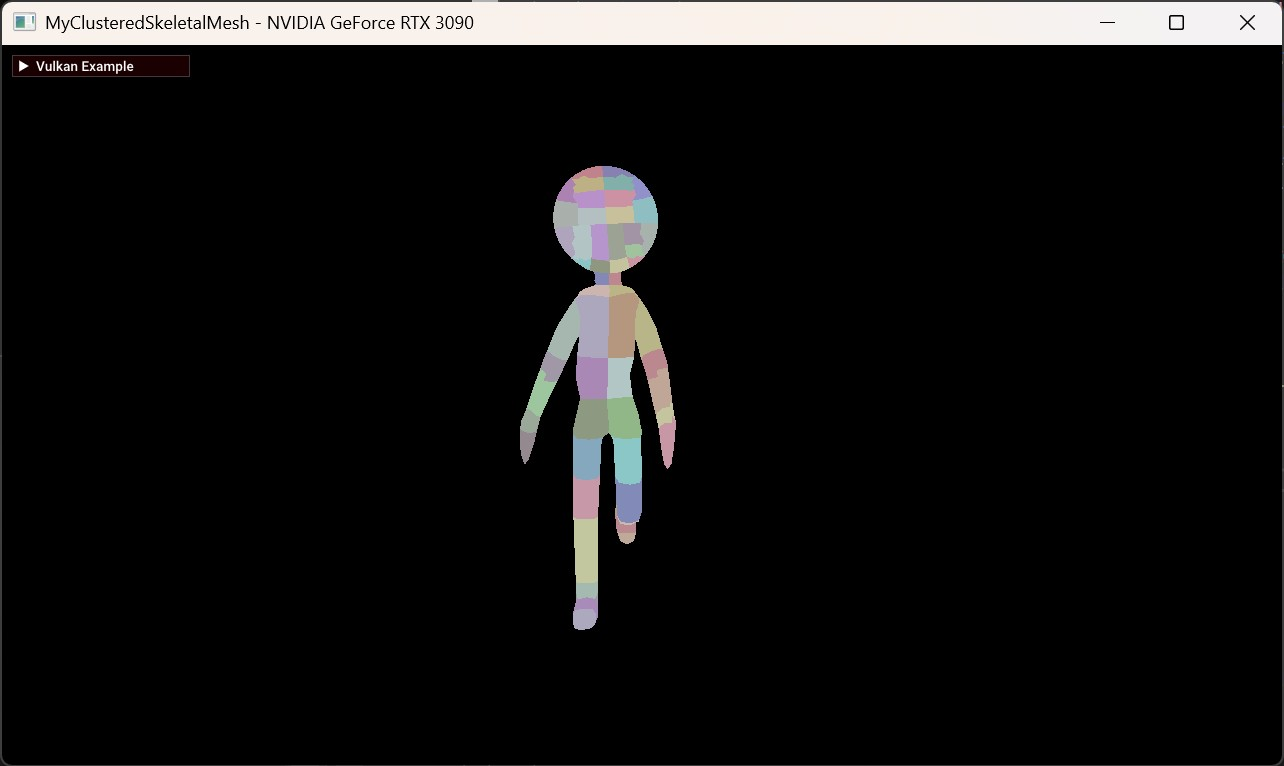
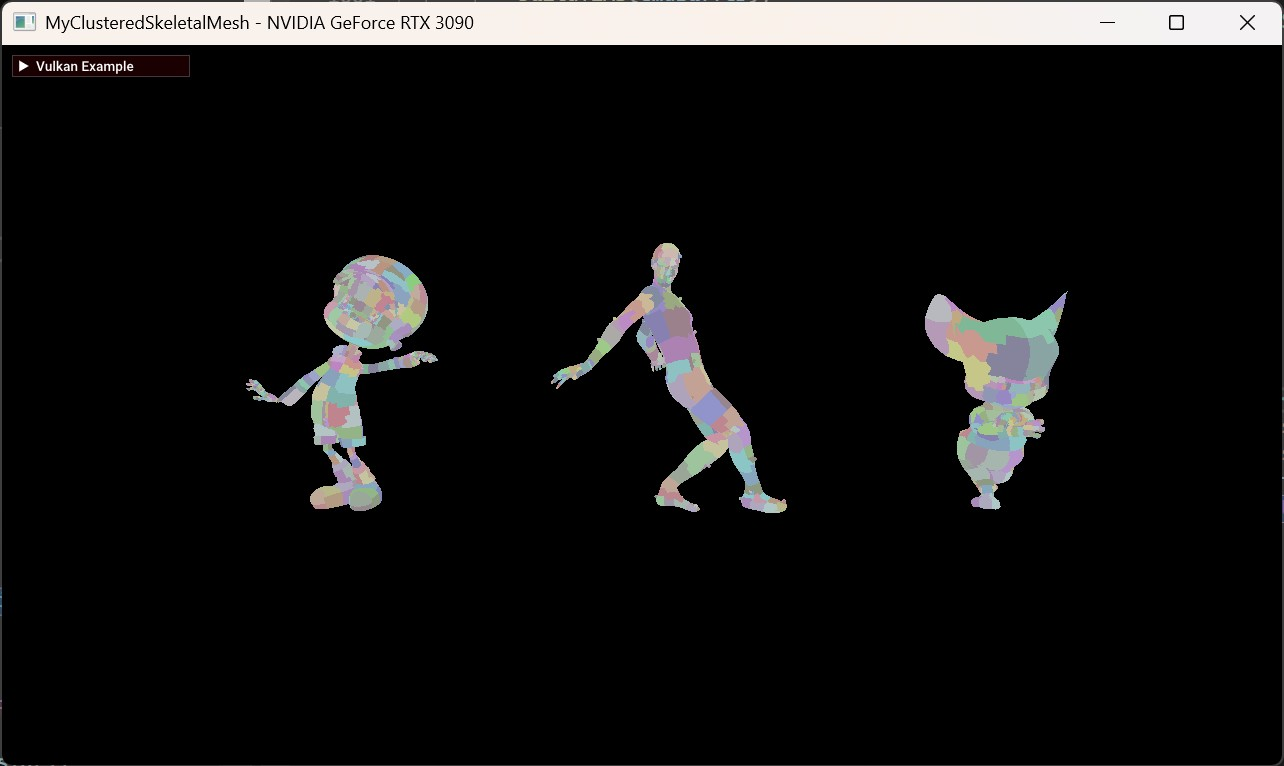
multi animating models, measure performance

diff --git a/MyDevs/myClusteredSkeletalMesh/myClusteredSkeletalMesh.cpp b/MyDevs/myClusteredSkeletalMesh/myClusteredSkeletalMesh.cpp
@@ -16,7 +16,7 @@
 #include "myClusteredSkeletalMesh.h"
 #include "myIncludesCPUGPU.h"
 #define FORCE_STATIC_SCENE 0
-myglTF::FileLoadingFlags g_loadingFlag = myglTF::FileLoadingFlags(myglTF::FileLoadingFlags::MakeClusters);
+myglTF::FileLoadingFlags g_loadingFlag = myglTF::FileLoadingFlags(myglTF::FileLoadingFlags::MakeClusters /*| myglTF::FileLoadingFlags::PreTransformVertices*/);
 
 
 MyClusteredSkeletalMesh::MyClusteredSkeletalMesh()
@@ -24,8 +24,8 @@ MyClusteredSkeletalMesh::MyClusteredSkeletalMesh()
 	title = "MyClusteredSkeletalMesh";
 	camera.type = Camera::CameraType::firstperson;
 	camera.setPerspective(60.0f, (float)width / (float)height, 0.1f, 512.0f);
-	camera.setRotation(glm::vec3(0.0f, 0.0f, 0.0f));
-	camera.setTranslation(glm::vec3(0.0f, -0.1f, -1.0f));
+	camera.setRotation(glm::vec3(-10.0f, -3.0f, 0.0f));
+	camera.setTranslation(glm::vec3(0.0f, 1.3f, -3.7f));
 
 	enableExtensions();
 
@@ -801,6 +801,19 @@ void MyClusteredSkeletalMesh::buildCommandBuffers()
 				0, nullptr,
 				0, nullptr);
 
+			// blas udpate dispatch commands
+			{
+				ClusteredBlasPushConstantData clusteredBlasPushConstants{};
+				uint32_t numClusteredBlases = model.clusteredGeometryNodes.size();
+				clusteredBlasPushConstants.sumCount = numClusteredBlases;
+				clusteredBlasPushConstants.instanceCount = numClusteredBlases * 1; // not instancing yet
+				clusteredBlasPushConstants.animated = 0;
+				clusteredBlasPushConstants.blasAddresses = clusteredBlasDstAddressBuffer.deviceAddress;
+				clusteredBlasPushConstants.clusteredGeometryDatas = model.geometryNodes.deviceAddress;
+				clusteredBlasPushConstants.asInstances = blasInstancesBuffer.deviceAddress;
+				blasUpdateComputePass->buildCommandBuffer(cmdBuffer, clusteredBlasPushConstants);
+			}
+
 			memBarrier.srcAccessMask = VK_ACCESS_SHADER_READ_BIT | VK_ACCESS_SHADER_WRITE_BIT;
 			memBarrier.dstAccessMask = VK_ACCESS_ACCELERATION_STRUCTURE_READ_BIT_KHR | VK_ACCESS_ACCELERATION_STRUCTURE_WRITE_BIT_KHR;
 			vkCmdPipelineBarrier(
@@ -937,9 +950,9 @@ void MyClusteredSkeletalMesh::loadAssets()
 	//myglTF::ModelRT::memoryPropertyFlags = VK_BUFFER_USAGE_ACCELERATION_STRUCTURE_BUILD_INPUT_READ_ONLY_BIT_KHR | VK_BUFFER_USAGE_SHADER_DEVICE_ADDRESS_BIT | VK_BUFFER_USAGE_STORAGE_BUFFER_BIT
 	//model.loadFromFile(getAssetPath() + "models/sponza/sponza.gltf", vulkanDevice, queue, g_loadingFlag | myglTF::FileLoadingFlags::PreTransformVertices);
 	//model.loadFromFile(getAssetPath() + "models/CesiumMan/glTF/CesiumMan.gltf", vulkanDevice, queue, g_loadingFlag);
-	model.loadFromFile("D:\\MyHome\\Assets\\mixamo\\MocapGuy\\gltf\\MocapGuy.gltf", vulkanDevice, queue, g_loadingFlag);
+	//model.loadFromFile(getAssetPath() + "models/mixamo/MocapGuy/MocapGuy.gltf", vulkanDevice, queue, g_loadingFlag);
 
-	//model.loadFromFile(getAssetPath() + "models/FlightHelmet/glTF/FlightHelmet.gltf", vulkanDevice, queue);
+	model.loadFromFile("D:\\Documents\\Blender\\Exports\\Scene\\DancingScene1.gltf", vulkanDevice, queue, g_loadingFlag);
 }
 
 void MyClusteredSkeletalMesh::enableExtensions()
@@ -953,6 +966,12 @@ void MyClusteredSkeletalMesh::enableExtensions()
 void MyClusteredSkeletalMesh::prepare()
 {
 	MyVulkanRTBase::prepare();
+
+#if ACCEL_BUILD_TIMER_ON
+#if defined(_WIN32)
+	setupConsole("Vulkan example");
+#endif
+#endif
 
 	vkGetClusterAccelerationStructureBuildSizesNV = reinterpret_cast<PFN_vkGetClusterAccelerationStructureBuildSizesNV>(vkGetDeviceProcAddr(device, "vkGetClusterAccelerationStructureBuildSizesNV"));
 	vkCmdBuildClusterAccelerationStructureIndirectNV = reinterpret_cast<PFN_vkCmdBuildClusterAccelerationStructureIndirectNV>(vkGetDeviceProcAddr(device, "vkCmdBuildClusterAccelerationStructureIndirectNV"));
@@ -1075,12 +1094,17 @@ void MyClusteredSkeletalMesh::render()
 		// Update Animation
 		static float accTime = 0.f; // accumulated Time
 		static float animationSpeed = 1.f;
-		accTime += frameTimer;
-		if (accTime > model.animations[0].end) // run only first animation
+
+		// update all animations, ALl skeletal mesh should have a single animation.
+		for (uint32_t animIdx = 0; animIdx < model.activeAnimations.size(); ++animIdx)
 		{
-			accTime = 0.f;
+			myglTF::ActiveAnimation& anim = model.activeAnimations[animIdx];
+			anim.accPlayTime += frameTimer;
+			if (anim.accPlayTime > anim.end)
+				anim.accPlayTime = 0.f;
+			model.updateAnimation(animIdx, animationSpeed * anim.accPlayTime);
 		}
-		model.updateAnimation(0, animationSpeed * accTime);
+
 	}
 	updateUniformBuffers();
 
@@ -1129,6 +1153,20 @@ void MyClusteredSkeletalMesh::render()
 			0, nullptr,
 			0, nullptr);
 
+		// blas udpate dispatch commands
+		{
+			ClusteredBlasPushConstantData clusteredBlasPushConstants{};
+			uint32_t numClusteredBlases = model.clusteredGeometryNodes.size();
+			clusteredBlasPushConstants.sumCount = numClusteredBlases;
+			clusteredBlasPushConstants.instanceCount = numClusteredBlases * 1; // not instancing yet
+			clusteredBlasPushConstants.animated = 0;
+			clusteredBlasPushConstants.blasAddresses = clusteredBlasDstAddressBuffer.deviceAddress;
+			clusteredBlasPushConstants.clusteredGeometryDatas = model.geometryNodes.deviceAddress;
+			clusteredBlasPushConstants.asInstances = blasInstancesBuffer.deviceAddress;
+			blasUpdateComputePass->buildCommandBuffer(cmdBuffer, clusteredBlasPushConstants);
+		}
+
+
 		memBarrier.srcAccessMask = VK_ACCESS_SHADER_READ_BIT | VK_ACCESS_SHADER_WRITE_BIT;
 		memBarrier.dstAccessMask = VK_ACCESS_ACCELERATION_STRUCTURE_READ_BIT_KHR | VK_ACCESS_ACCELERATION_STRUCTURE_WRITE_BIT_KHR;
 		vkCmdPipelineBarrier(
@@ -1146,24 +1184,28 @@ void MyClusteredSkeletalMesh::render()
 		gpuTimers[2]->record(cmdBuffer, VK_PIPELINE_STAGE_ACCELERATION_STRUCTURE_BUILD_BIT_KHR, 1);
 	}
 	vulkanDevice->flushCommandBuffer(cmdBuffer, queue);
-	accBuildCLASTime += gpuTimers[0]->timerResult();
-	accBuildBLASTime += gpuTimers[1]->timerResult();
-	accBuildTLASTime += gpuTimers[2]->timerResult();
-	static uint32_t frameCount = 0;
+	static uint32_t frameCount, accFPS = 0;
 	++frameCount;
-	if (frameCount == MEASURE_FRAME_COUNT)
+	if (frameCount >= WARMINGUP_FRAME)
 	{
-		float clasAvg = accBuildCLASTime / MEASURE_FRAME_COUNT;
-		float blasAvg = accBuildBLASTime / MEASURE_FRAME_COUNT;
-		float tlasAvg = accBuildTLASTime / MEASURE_FRAME_COUNT;
-		std::cout << "With CLAS, Measured Frame Count: " << MEASURE_FRAME_COUNT  << "\n";
-		std::cout << "Average CLAS Build Time = " << clasAvg << "(ms)\n";
-		std::cout << "Average BLAS Build Time = " << blasAvg << "(ms)\n";
-		std::cout << "Average TLAS Build Time = " << tlasAvg << "(ms)\n";
-		std::cout << "Average Total AS Build Time = " << clasAvg + blasAvg + tlasAvg << "(ms)\n";
+		accBuildCLASTime += gpuTimers[0]->timerResult();
+		accBuildBLASTime += gpuTimers[1]->timerResult();
+		accBuildTLASTime += gpuTimers[2]->timerResult();
+		accFPS += lastFPS;
+		if (frameCount == MEASURE_FRAME_COUNT)
+		{
+			float clasAvg = accBuildCLASTime / MEASURE_FRAME_COUNT;
+			float blasAvg = accBuildBLASTime / MEASURE_FRAME_COUNT;
+			float tlasAvg = accBuildTLASTime / MEASURE_FRAME_COUNT;
+			std::cout << "With CLAS, Measured Frame Count: " << MEASURE_FRAME_COUNT << "\n";
+			std::cout << "Average CLAS Build Time = " << clasAvg << "(ms)\n";
+			std::cout << "Average BLAS Build Time = " << blasAvg << "(ms)\n";
+			std::cout << "Average TLAS Build Time = " << tlasAvg << "(ms)\n";
+			std::cout << "Average Total AS Build Time = " << clasAvg + blasAvg + tlasAvg << "(ms)\n";
+			std::cout << "Average Total FPS = " << (float)accFPS / MEASURE_FRAME_COUNT << "(fps)\n";
+		}
 	}
 #endif
-
 	draw();
 }
 

diff --git a/MyDevs/myRayTracingLittleAdvanced/mySkeletalAnimationRT.cpp b/MyDevs/myRayTracingLittleAdvanced/mySkeletalAnimationRT.cpp
@@ -23,8 +23,8 @@ MySkeletalAnimationRT::MySkeletalAnimationRT()
 	title = "MySkeletalAnimationRT";
 	camera.type = Camera::CameraType::firstperson;
 	camera.setPerspective(60.0f, (float)width / (float)height, 0.1f, 512.0f);
-	camera.setRotation(glm::vec3(0.0f, 0.0f, 0.0f));
-	camera.setTranslation(glm::vec3(0.0f, -0.1f, -1.0f));
+	camera.setRotation(glm::vec3(-10.0f, -3.0f, 0.0f));
+	camera.setTranslation(glm::vec3(0.0f, 1.3f, -3.7f));
 
 	enableExtensions();
 
@@ -874,8 +874,10 @@ void MySkeletalAnimationRT::getEnabledFeatures()
 void MySkeletalAnimationRT::loadAssets()
 {
 	//model.loadFromFile(getAssetPath() + "models/CesiumMan/glTF/CesiumMan.gltf", vulkanDevice, queue, g_loadingFlag);
-	model.loadFromFile(getAssetPath() + "models/mixamo/MocapGuy/MocapGuy.gltf", vulkanDevice, queue, g_loadingFlag);
+	//model.loadFromFile(getAssetPath() + "models/mixamo/MocapGuy/MocapGuy.gltf", vulkanDevice, queue, g_loadingFlag);
+	//model.loadFromFile("D:\\Documents\\Blender\\Exports\\Timmy.gltf", vulkanDevice, queue, g_loadingFlag);
 
+	model.loadFromFile("D:\\Documents\\Blender\\Exports\\Scene\\DancingScene1.gltf", vulkanDevice, queue, g_loadingFlag);
 }
 
 void MySkeletalAnimationRT::enableExtensions()
@@ -889,7 +891,11 @@ void MySkeletalAnimationRT::enableExtensions()
 void MySkeletalAnimationRT::prepare()
 {
 	MyVulkanRTBase::prepare();
-
+#if ACCEL_BUILD_TIMER_ON
+#if defined(_WIN32)
+	setupConsole("Vulkan example");
+#endif
+#endif
 #if _DEBUG & !SKIP_SHADER_COMIPLE  // compile shaders
 	std::string batchPath = getShadersPath() + "MySkeletalAnimationRT/ShaderCompile.bat";
 	system(batchPath.c_str());
@@ -949,17 +955,17 @@ void MySkeletalAnimationRT::render()
 		// Update Animation
 		static float accTime = 0.f; // accumulated Time
 		static float animationSpeed = 1.f;
-		accTime += frameTimer;
-		if (accTime > model.animations[0].end) // run only first animation
-		{
-			accTime = 0.f;
-		}
+
 		// update all animations, ALl skeletal mesh should have a single animation.
-		for (uint32_t animIdx = 0; animIdx < model.animations.size(); ++animIdx)
+		for (uint32_t animIdx = 0; animIdx < model.activeAnimations.size(); ++animIdx)
 		{
-			model.updateAnimation(animIdx, animationSpeed * accTime);
+			myglTF::ActiveAnimation& anim = model.activeAnimations[animIdx];
+			anim.accPlayTime += frameTimer;
+			if (anim.accPlayTime > anim.end)
+				anim.accPlayTime = 0.f;
+			model.updateAnimation(animIdx, animationSpeed * anim.accPlayTime);
 		}
-		
+
 	}
 
 	updateUniformBuffers();
@@ -996,18 +1002,23 @@ void MySkeletalAnimationRT::render()
 		gpuTimers[1]->record(cmdBuffer, VK_PIPELINE_STAGE_ACCELERATION_STRUCTURE_BUILD_BIT_KHR, 1);
 	}
 	vulkanDevice->flushCommandBuffer(cmdBuffer, queue);
-	accBuildBLASTime += gpuTimers[0]->timerResult();
-	accBuildTLASTime += gpuTimers[1]->timerResult();
-	static uint32_t frameCount = 0;
+	static uint32_t frameCount, accFPS = 0;
 	++frameCount;
-	if (frameCount == MEASURE_FRAME_COUNT)
+	if (frameCount >= WARMINGUP_FRAME)
 	{
-		float blasAvg = accBuildBLASTime / MEASURE_FRAME_COUNT;
-		float tlasAvg = accBuildTLASTime / MEASURE_FRAME_COUNT;
-		std::cout << "With Traditional AS, Measured Frame Count: " << MEASURE_FRAME_COUNT << "\n";
-		std::cout << "Average BLAS Build Time = " << blasAvg << "(ms)\n";
-		std::cout << "Average TLAS Build Time = " << tlasAvg << "(ms)\n";
-		std::cout << "Average Total AS Build Time = " << blasAvg + tlasAvg << "(ms)\n";
+		accBuildBLASTime += gpuTimers[0]->timerResult();
+		accBuildTLASTime += gpuTimers[1]->timerResult();
+		accFPS += lastFPS;
+		if (frameCount == MEASURE_FRAME_COUNT)
+		{
+			float blasAvg = accBuildBLASTime / MEASURE_FRAME_COUNT;
+			float tlasAvg = accBuildTLASTime / MEASURE_FRAME_COUNT;
+			std::cout << "With Traditional AS, Measured Frame Count: " << MEASURE_FRAME_COUNT << "\n";
+			std::cout << "Average BLAS Build Time = " << blasAvg << "(ms)\n";
+			std::cout << "Average TLAS Build Time = " << tlasAvg << "(ms)\n";
+			std::cout << "Average Total AS Build Time = " << blasAvg + tlasAvg << "(ms)\n";
+			std::cout << "Average Total FPS = " << (float)accFPS / MEASURE_FRAME_COUNT << "(fps)\n";
+		}
 	}
 #endif
 

diff --git a/MyDevs/myBase/myglTFModel.cpp b/MyDevs/myBase/myglTFModel.cpp
@@ -2568,6 +2568,11 @@ void myglTF::ModelRT::loadFromFile(std::string filename, vks::VulkanDevice* devi
 			loadAnimations(gltfModel);
 		}
 
+		for (auto& anim : animations)
+		{
+			activeAnimations.push_back(ActiveAnimation(anim));
+		}
+
 		for (auto node : linearNodes) {
 			// Assign skins
 			if (node->skinIndex > -1) {
@@ -2577,12 +2582,13 @@ void myglTF::ModelRT::loadFromFile(std::string filename, vks::VulkanDevice* devi
 			//if (preTransform == false && node->mesh) {
 			//	node->update();
 			//}
-		}
-		for (auto node : linearNodes) {
-			// Initial pose
-			if (preTransform == false && node->mesh) {
-				node->update();
+			for (auto node : linearNodes) {
+				// Initial pose
+				if (preTransform == false && node->mesh) {
+					node->update();
+				}
 			}
+
 		}
 	}
 	else {
@@ -2616,6 +2622,21 @@ void myglTF::ModelRT::loadFromFile(std::string filename, vks::VulkanDevice* devi
 							vertex->color = primitive->material.baseColorFactor * vertex->color;
 						}
 					}
+				}
+			}
+		}
+		// precalculate vertex tranform && skinning
+		if (isSkinningModel)
+		{
+			for (Node* node : linearNodes)
+			{
+				// if not skin node
+				if (node->mesh == nullptr)
+				{
+					node->scale = glm::vec3(1.f);
+					node->rotation = glm::mat4(1.f);
+					node->translation = glm::vec3(0.f);
+					node->matrix = glm::mat4(1.f);
 				}
 			}
 		}
@@ -2938,7 +2959,7 @@ void myglTF::ModelRT::loadFromFile(std::string filename, vks::VulkanDevice* devi
 	descriptorPoolCI.sType = VK_STRUCTURE_TYPE_DESCRIPTOR_POOL_CREATE_INFO;
 	descriptorPoolCI.poolSizeCount = static_cast<uint32_t>(poolSizes.size());
 	descriptorPoolCI.pPoolSizes = poolSizes.data();
-	descriptorPoolCI.maxSets = uboCount + imageCount * 2;
+	descriptorPoolCI.maxSets = uboCount + imageCount * 2*2;
 	VK_CHECK_RESULT(vkCreateDescriptorPool(device->logicalDevice, &descriptorPoolCI, nullptr, &descriptorPool));
 
 	// Descriptors for per-node uniform buffers

diff --git a/MyDevs/myBase/myglTFModel.h b/MyDevs/myBase/myglTFModel.h
@@ -247,6 +247,18 @@ namespace myglTF
 		float start = std::numeric_limits<float>::max();
 		float end = std::numeric_limits<float>::min();
 	};
+	struct ActiveAnimation : Animation
+	{
+		ActiveAnimation(const Animation& rhs)
+		{
+			name = rhs.name;
+			samplers = rhs.samplers;
+			channels = rhs.channels;
+			start = rhs.start;
+			end = rhs.end;
+		}
+		float accPlayTime = 0.f;
+	};
 
 	/*
 		glTF default vertex layout with easy Vulkan mapping functions
@@ -426,6 +438,7 @@ namespace myglTF
 		std::vector<Texture> textures;
 		std::vector<Material> materials;
 		std::vector<Animation> animations;
+		std::vector<ActiveAnimation> activeAnimations;
 		std::vector<GeometryNodePerPrimitiveRT> geometryNodesPerPrimitive;
 		std::vector<GeometryNodePerMeshRT> geometryNodesPerMesh;
 

diff --git a/base/camera.hpp b/base/camera.hpp
@@ -78,6 +78,12 @@ public:
 		bool down = false;
 	} keys;
 
+	void printPose()
+	{
+		printf("camera.setTranslation(glm::vec3(%f, %f, %f));\n", position.x, position.y, position.z);
+		printf("camera.setRotation(glm::vec3(%f, %f, %f));\n", rotation.x, rotation.y, rotation.z);
+	}
+
 	bool moving() const
 	{
 		return keys.left || keys.right || keys.up || keys.down;

diff --git a/MyDevs/myRayTracingLittleAdvanced/mySkeletalAnimationRT.h b/MyDevs/myRayTracingLittleAdvanced/mySkeletalAnimationRT.h
@@ -5,7 +5,7 @@
 /**
  * If Timer On, build "build accel" command each frame in render() func
  */
-#define ACCEL_BUILD_TIMER_ON 0
+#define ACCEL_BUILD_TIMER_ON 1
 #define MEASURE_FRAME_COUNT 3000
 class MySkeletalAnimationRT : public MyVulkanRTBase
 {

diff --git a/MyDevs/myClusteredSkeletalMesh/myClusteredSkeletalMesh.h b/MyDevs/myClusteredSkeletalMesh/myClusteredSkeletalMesh.h
@@ -22,7 +22,6 @@
  * If Timer On, build "build accel" command each frame in render() func
  */
 #define ACCEL_BUILD_TIMER_ON 1
-#define MEASURE_FRAME_COUNT 3000
 
 class MyClusteredSkeletalMesh : public MyVulkanRTBase
 {

diff --git a/base/benchmark.hpp b/base/benchmark.hpp
@@ -14,6 +14,9 @@
 #include <chrono>
 #include <iomanip>
 
+#define WARMINGUP_FRAME 10
+#define MEASURE_FRAME_COUNT (WARMINGUP_FRAME + 3000)
+
 namespace vks
 {
 	class Benchmark {

diff --git a/MyDevs/myClusteredSkeletalMesh/README.md b/MyDevs/myClusteredSkeletalMesh/README.md
@@ -28,8 +28,9 @@ mat4 skinMat =
     vertexWeight0.z * jointData.jointMatrices[int(vertexJoint0.z)] +
     vertexWeight0.w * jointData.jointMatrices[int(vertexJoint0.w)]);
 
-vec3 deformedPos = (skinMat * vertexPos).xyz;
+vec3 deformedPos = (worldMat * skinMat * vertexPos).xyz;
 ```
+기존의 BLAS의 경우 BLAS 빌드 할 때 Transform buffer을 입력하여 world space 변환이 가능했으나, Clustered BLAS는 Transform 입력을 지원하지 않기 때문에 compute shader에서 world 까지 변환을 마친 후 BVH 빌드를 해야 한다.
 
 ## 2. Compare AS Building Performance
 | 항목 | Traditional AS | With CLAS |
